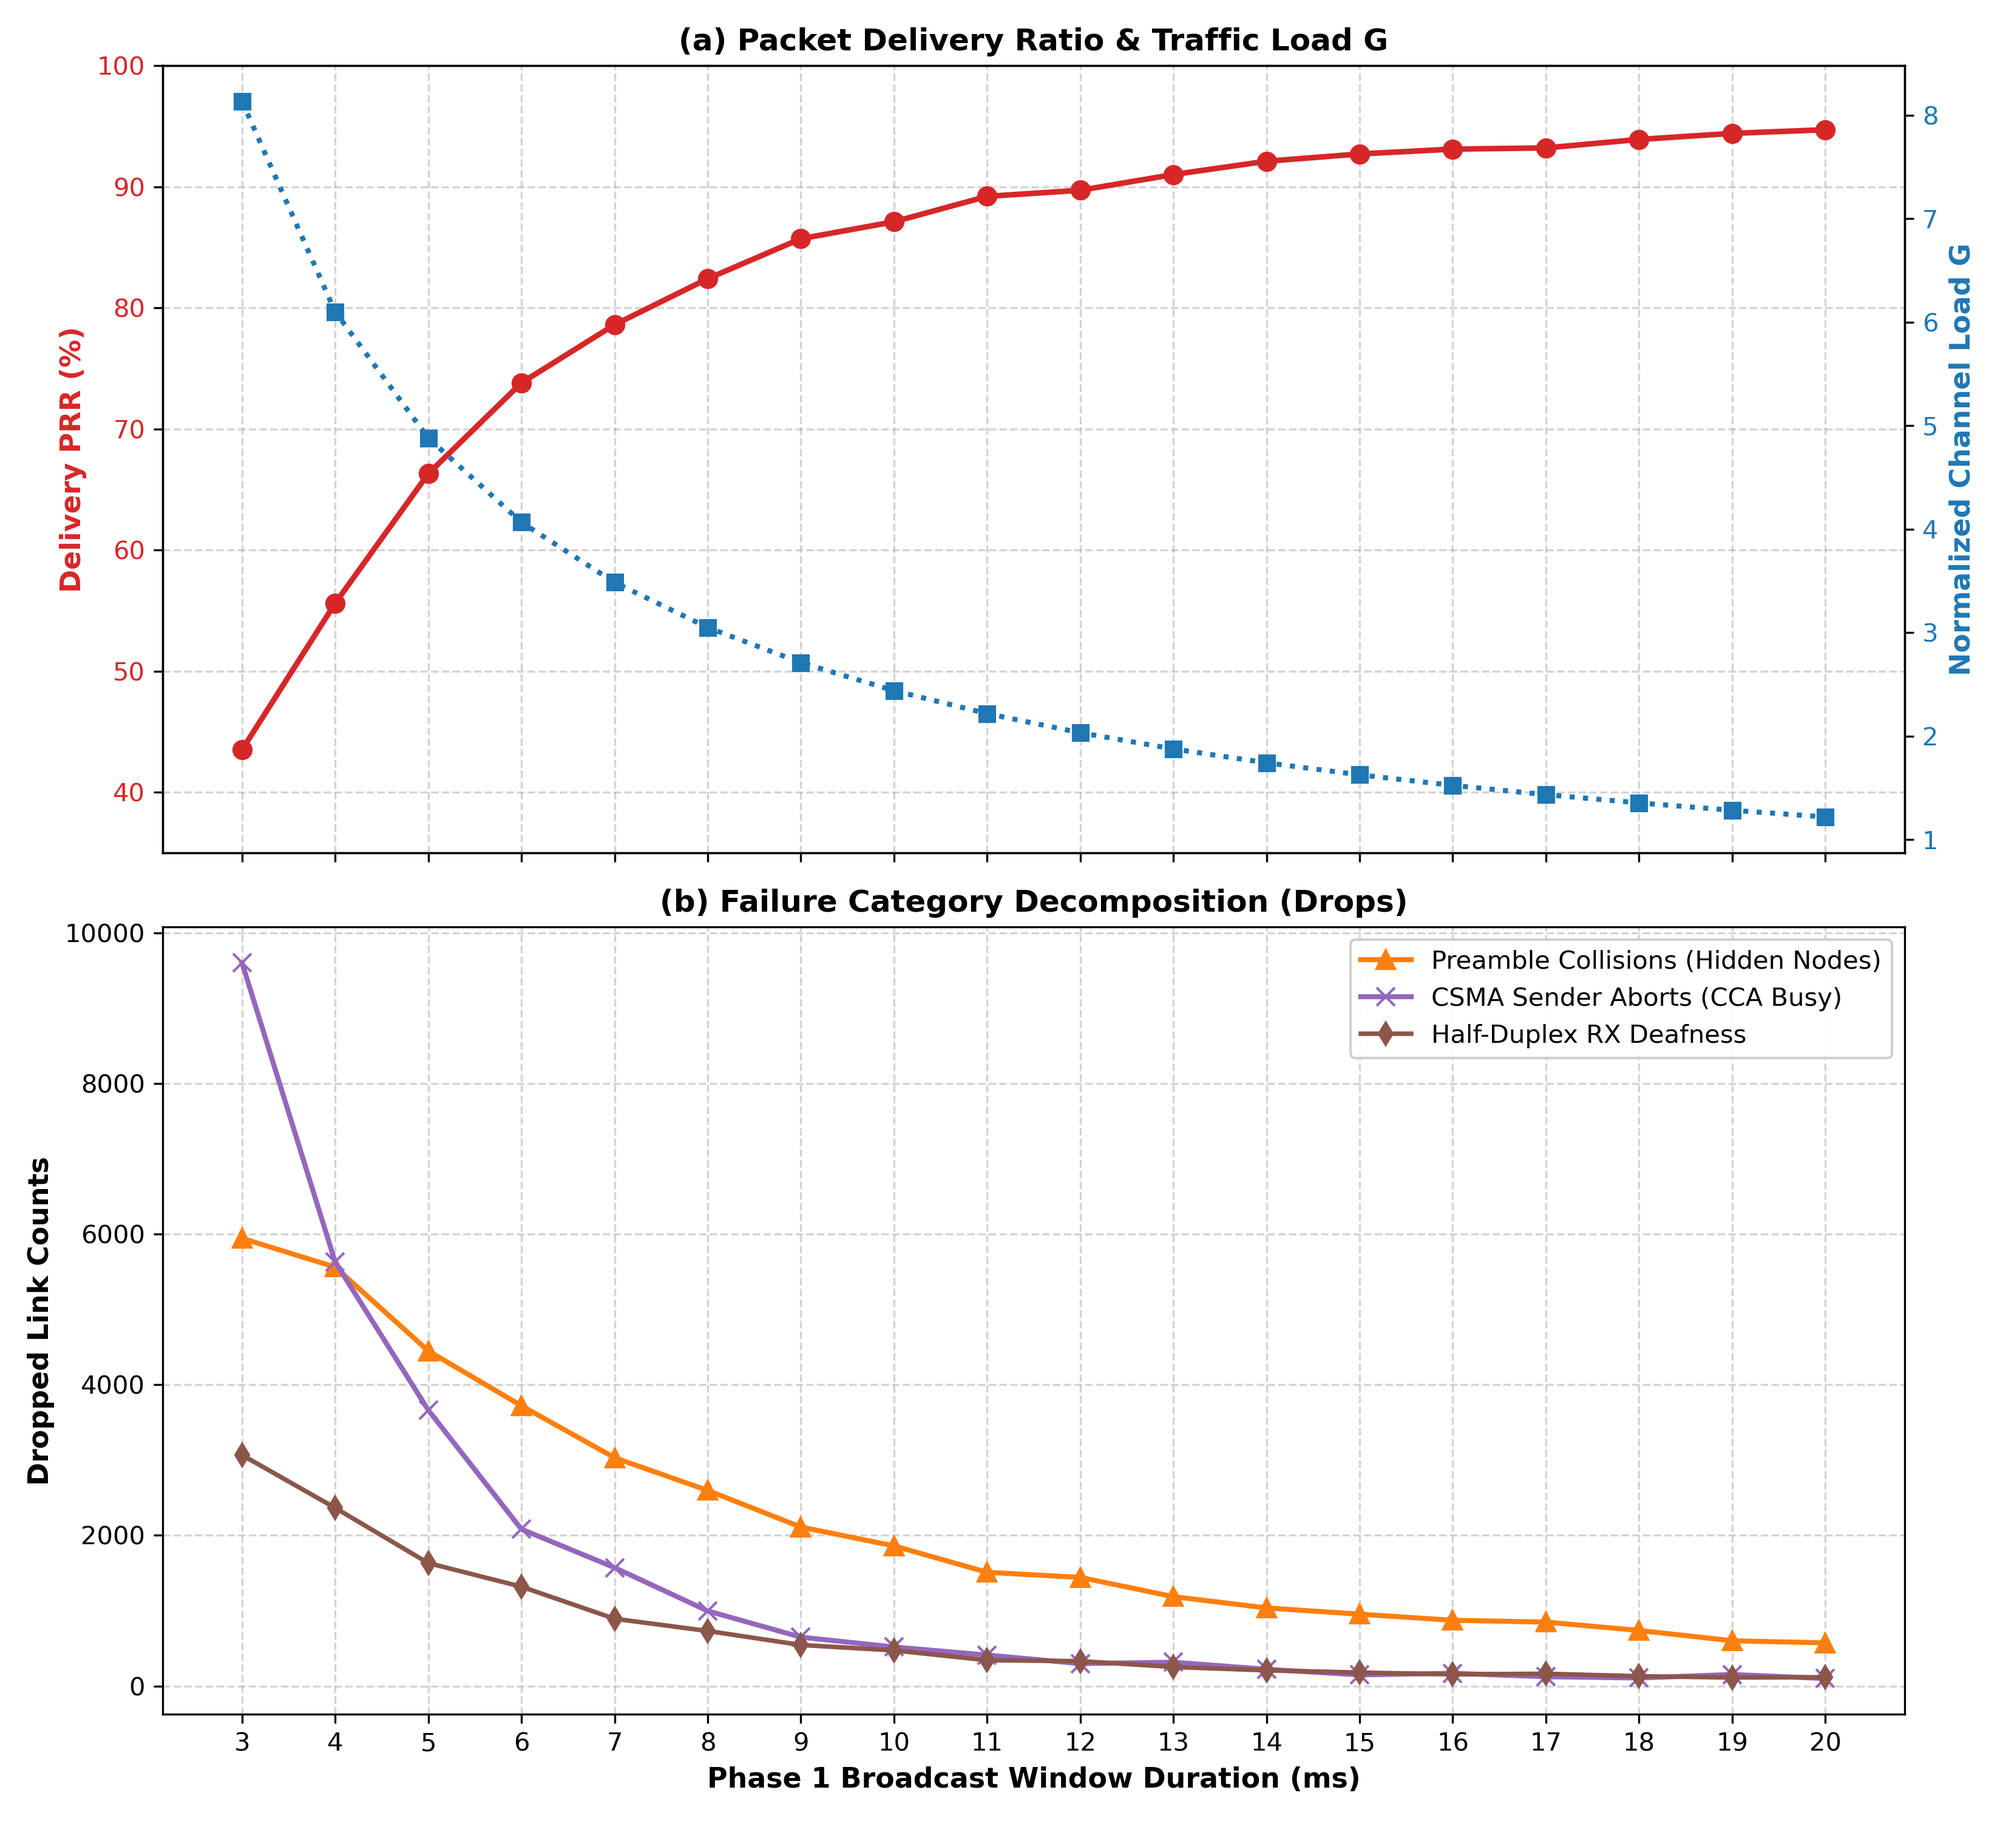
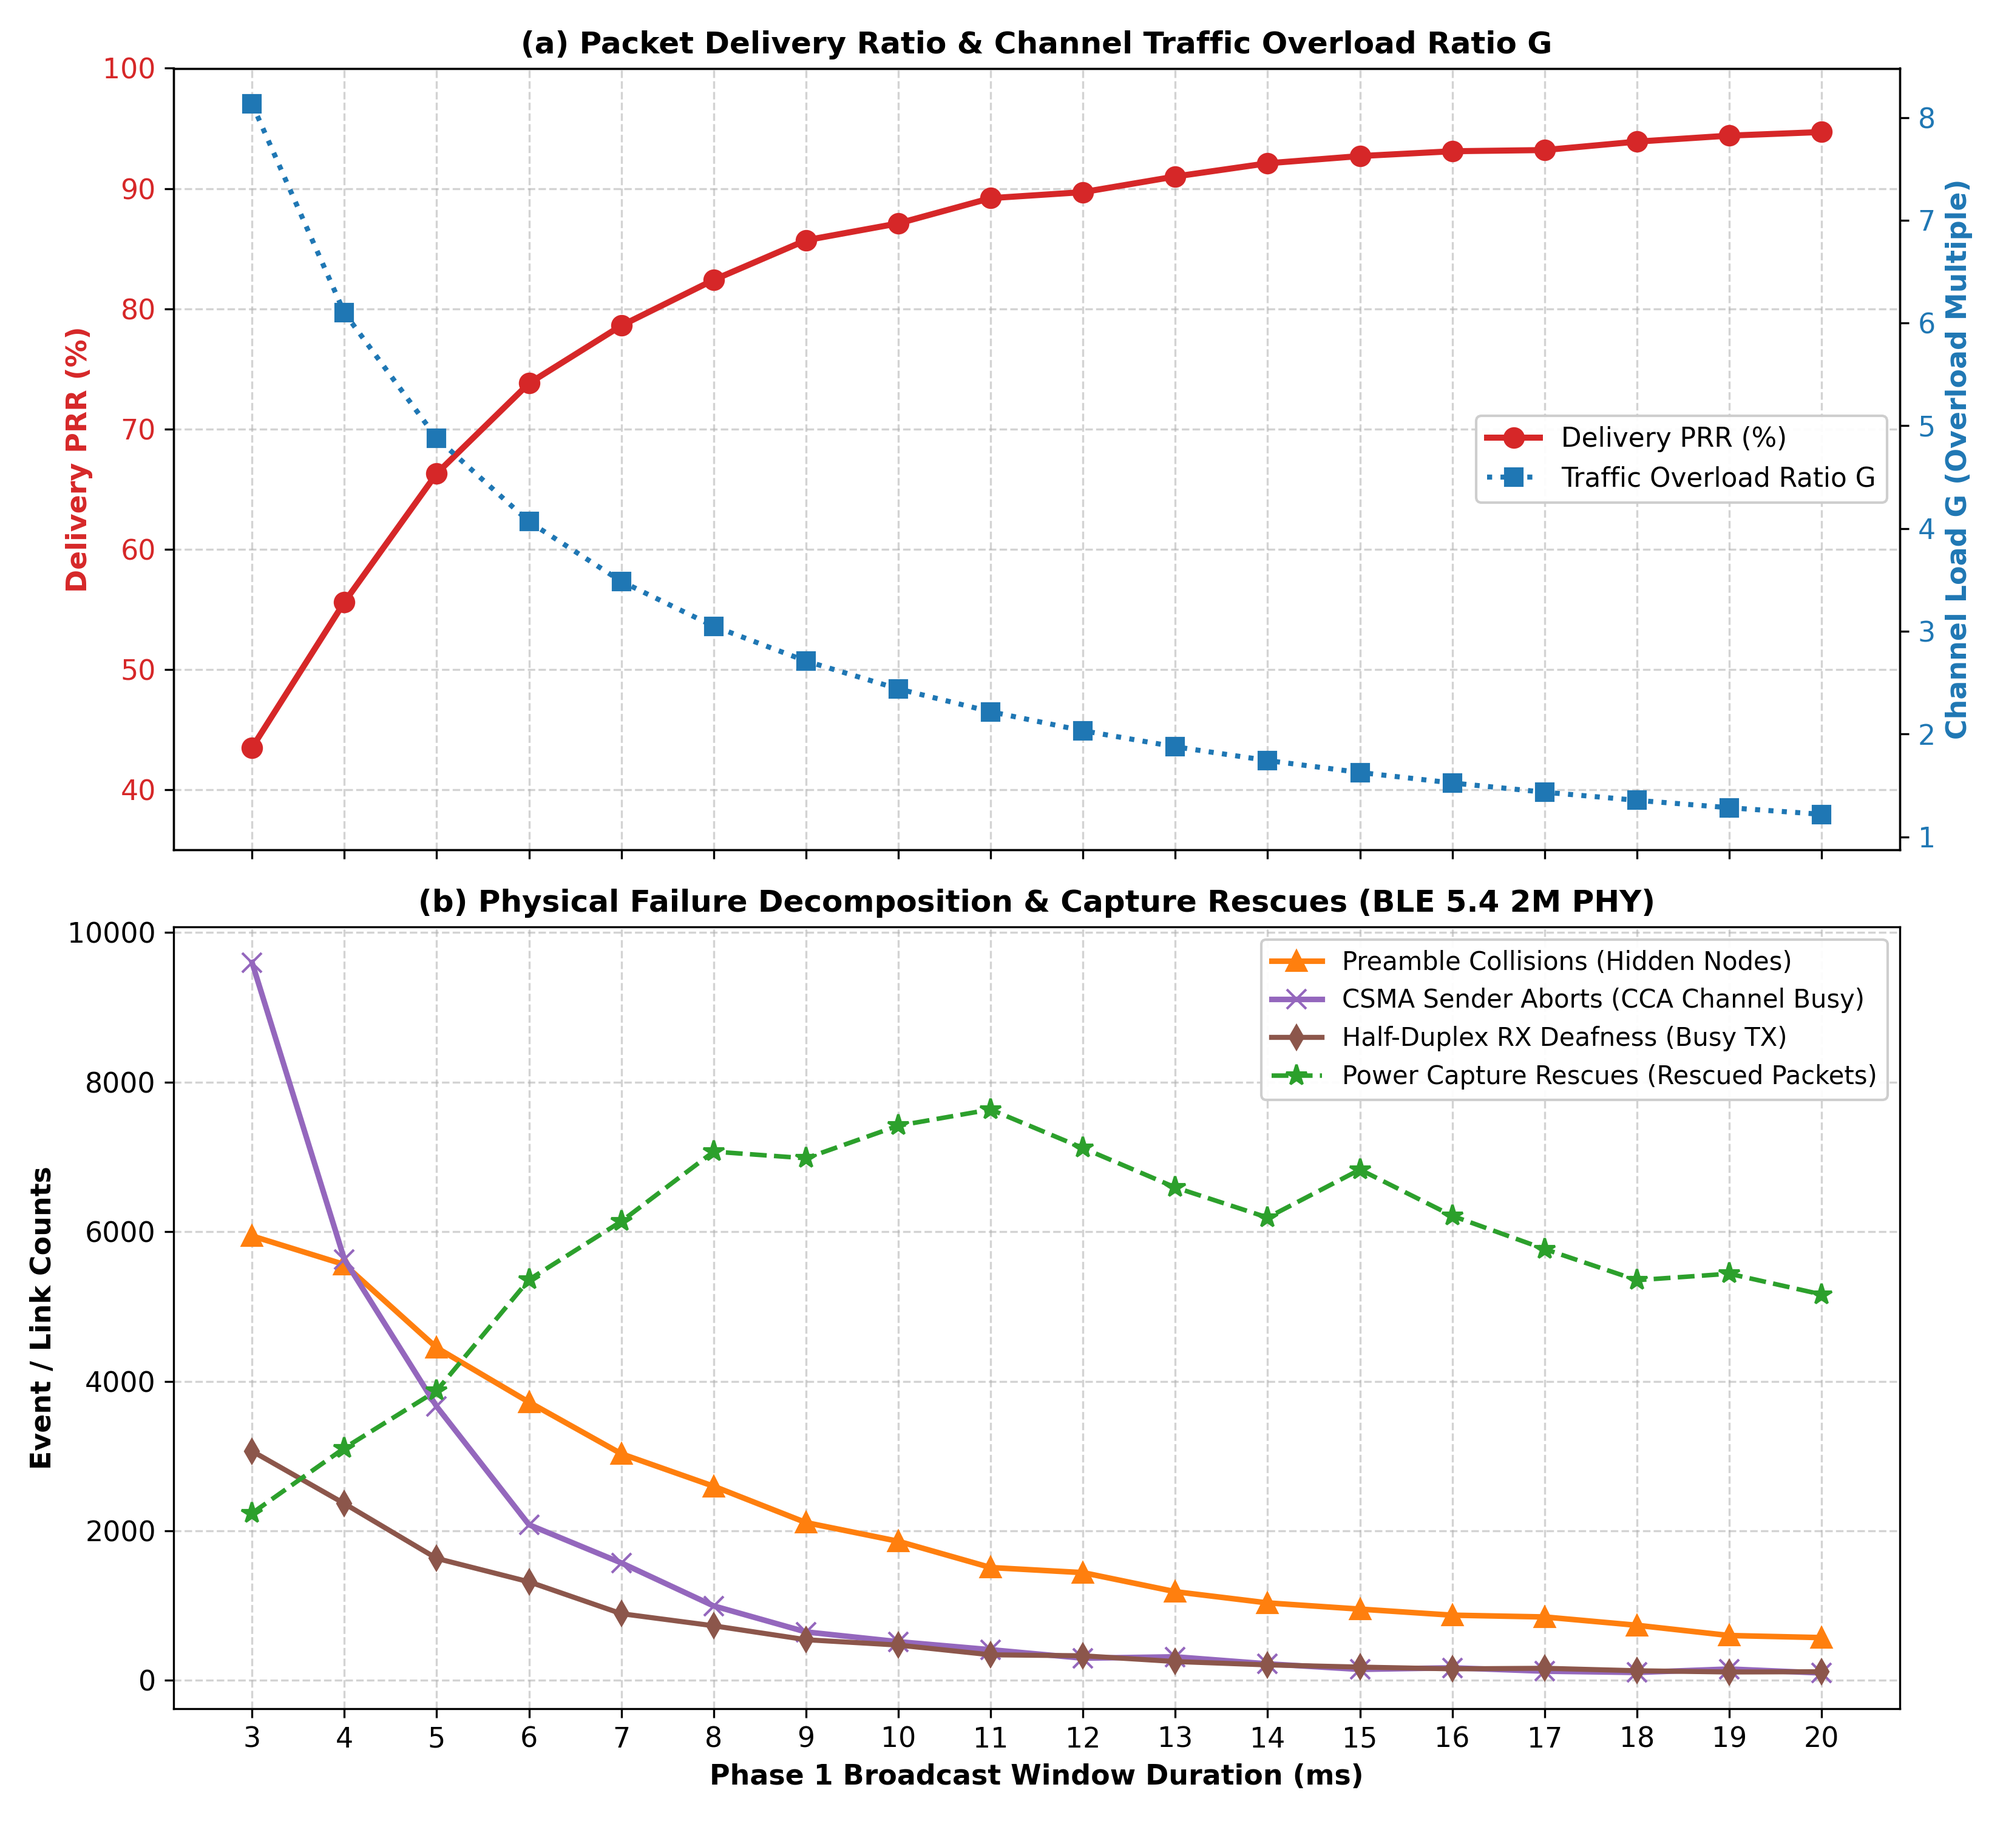
style: update 3-20ms plots with pure BLE 5.4 2M PHY labels

diff --git a/plot_csma_duration_3_20ms.py b/plot_csma_duration_3_20ms.py
@@ -1,0 +1,108 @@
+#!/usr/bin/env python3
+"""
+Publication-Quality Plotter for CSMA-CA Phase 1 Window Duration Sweep (3.0 ms ~ 20.0 ms)
+Strictly adheres to:
+- Physical Layer: Bluetooth 5.4 LE 2M PHY (2 Mbps, 244 us air time, strict C/I = +6.0 dB)
+- Swarm Scale: 100 UAVs in 200m x 200m x 80m
+- NO mention of IEEE 802.15.4.
+"""
+
+import os
+import csv
+import matplotlib
+matplotlib.use('Agg')
+import matplotlib.pyplot as plt
+
+PROJECT_DIR = os.path.dirname(os.path.abspath(__file__))
+csv_path = os.path.join(PROJECT_DIR, "exp_csma_duration_3_20ms_results.csv")
+
+if not os.path.exists(csv_path):
+    print(f"Error: {csv_path} not found.")
+    exit(1)
+
+dur_list = []
+load_list = []
+prr_list = []
+coll_list = []
+abort_list = []
+deaf_list = []
+capt_list = []
+
+with open(csv_path, "r", encoding="utf-8") as f:
+    reader = csv.DictReader(f)
+    for row in reader:
+        dur_list.append(float(row["Duration_ms"]))
+        load_list.append(float(row["Traffic_Load_G"]))
+        prr_list.append(float(row["PRR"]))
+        coll_list.append(int(row["Collisions"]))
+        abort_list.append(int(row["Aborts"]))
+        deaf_list.append(int(row["RX_Deafness"]))
+        capt_list.append(int(row["Captures"]))
+
+plt.rcParams['font.family'] = 'DejaVu Sans'
+plt.rcParams['font.size'] = 11
+
+# ==============================================================================
+# Figure 1: PRR vs Window Duration (BLE 5.4 2M PHY)
+# ==============================================================================
+fig, ax = plt.subplots(figsize=(10.5, 6), dpi=300)
+ax.plot(dur_list, prr_list, marker='o', markersize=8, linewidth=2.5, color='#d62728', label='CSMA-CA (BLE 5.4 2M PHY)')
+
+for i, d in enumerate(dur_list):
+    offset_y = 10 if i % 2 == 0 else -16
+    ax.annotate(f"{prr_list[i]:.1f}%", (d, prr_list[i]), textcoords="offset points", xytext=(0, offset_y),
+                ha='center', fontsize=9.5, fontweight='bold', color='#d62728')
+
+ax.set_title('CSMA-CA Packet Delivery Ratio vs Broadcast Window Duration\n(BLE 5.4 2M PHY, 100 UAVs, Continuous 3ms–20ms)', fontsize=13, fontweight='bold', pad=14)
+ax.set_xlabel('Phase 1 Broadcast Window Duration (ms, 1 ms Step)', fontsize=11, fontweight='bold')
+ax.set_ylabel('Top-5 Neighbor Delivery PRR (%)', fontsize=11, fontweight='bold')
+ax.set_xticks(dur_list)
+ax.set_ylim(min(prr_list) - 5, 100)
+ax.grid(True, linestyle='--', alpha=0.55)
+ax.legend(loc='lower right', fontsize=11.5, framealpha=0.95)
+
+plt.tight_layout()
+fig1_path = os.path.join(PROJECT_DIR, "csma_duration_3_20ms_prr.png")
+plt.savefig(fig1_path)
+plt.close()
+print(f"✅ Generated {fig1_path}")
+
+# ==============================================================================
+# Figure 2: Comprehensive Multi-Panel Physical Breakdown
+# ==============================================================================
+fig, (ax1, ax2) = plt.subplots(2, 1, figsize=(11, 10), dpi=300, sharex=True)
+
+# Panel (a): Delivery PRR and Normalized Channel Load G
+ax1.plot(dur_list, prr_list, marker='o', markersize=7.5, linewidth=2.4, color='#d62728', label='Delivery PRR (%)')
+ax1.set_ylabel('Delivery PRR (%)', fontsize=11, fontweight='bold', color='#d62728')
+ax1.tick_params(axis='y', labelcolor='#d62728')
+ax1.set_ylim(35, 100)
+ax1.grid(True, linestyle='--', alpha=0.55)
+ax1.set_title('(a) Packet Delivery Ratio & Channel Traffic Overload Ratio G', fontsize=12, fontweight='bold')
+
+ax1_twin = ax1.twinx()
+ax1_twin.plot(dur_list, load_list, marker='s', markersize=6.5, linewidth=2.0, color='#1f77b4', linestyle=':', label='Traffic Overload Ratio G')
+ax1_twin.set_ylabel('Channel Load G (Overload Multiple)', fontsize=11, fontweight='bold', color='#1f77b4')
+ax1_twin.tick_params(axis='y', labelcolor='#1f77b4')
+
+lines_1, labels_1 = ax1.get_legend_handles_labels()
+lines_2, labels_2 = ax1_twin.get_legend_handles_labels()
+ax1.legend(lines_1 + lines_2, labels_1 + labels_2, loc='center right', fontsize=10.5, framealpha=0.95)
+
+# Panel (b): Drop Category Decomposition
+ax2.plot(dur_list, coll_list, marker='^', markersize=7.5, linewidth=2.2, color='#ff7f0e', label='Preamble Collisions (Hidden Nodes)')
+ax2.plot(dur_list, abort_list, marker='x', markersize=7.5, linewidth=2.2, color='#9467bd', label='CSMA Sender Aborts (CCA Channel Busy)')
+ax2.plot(dur_list, deaf_list, marker='d', markersize=6.5, linewidth=2.0, color='#8c564b', label='Half-Duplex RX Deafness (Busy TX)')
+ax2.plot(dur_list, capt_list, marker='*', markersize=8.5, linewidth=1.8, color='#2ca02c', linestyle='--', label='Power Capture Rescues (Rescued Packets)')
+ax2.set_title('(b) Physical Failure Decomposition & Capture Rescues (BLE 5.4 2M PHY)', fontsize=12, fontweight='bold')
+ax2.set_xlabel('Phase 1 Broadcast Window Duration (ms)', fontsize=11, fontweight='bold')
+ax2.set_ylabel('Event / Link Counts', fontsize=11, fontweight='bold')
+ax2.set_xticks(dur_list)
+ax2.grid(True, linestyle='--', alpha=0.55)
+ax2.legend(loc='upper right', fontsize=10, framealpha=0.95)
+
+plt.tight_layout()
+fig2_path = os.path.join(PROJECT_DIR, "csma_duration_3_20ms_breakdown.png")
+plt.savefig(fig2_path)
+plt.close()
+print(f"✅ Generated {fig2_path}")
